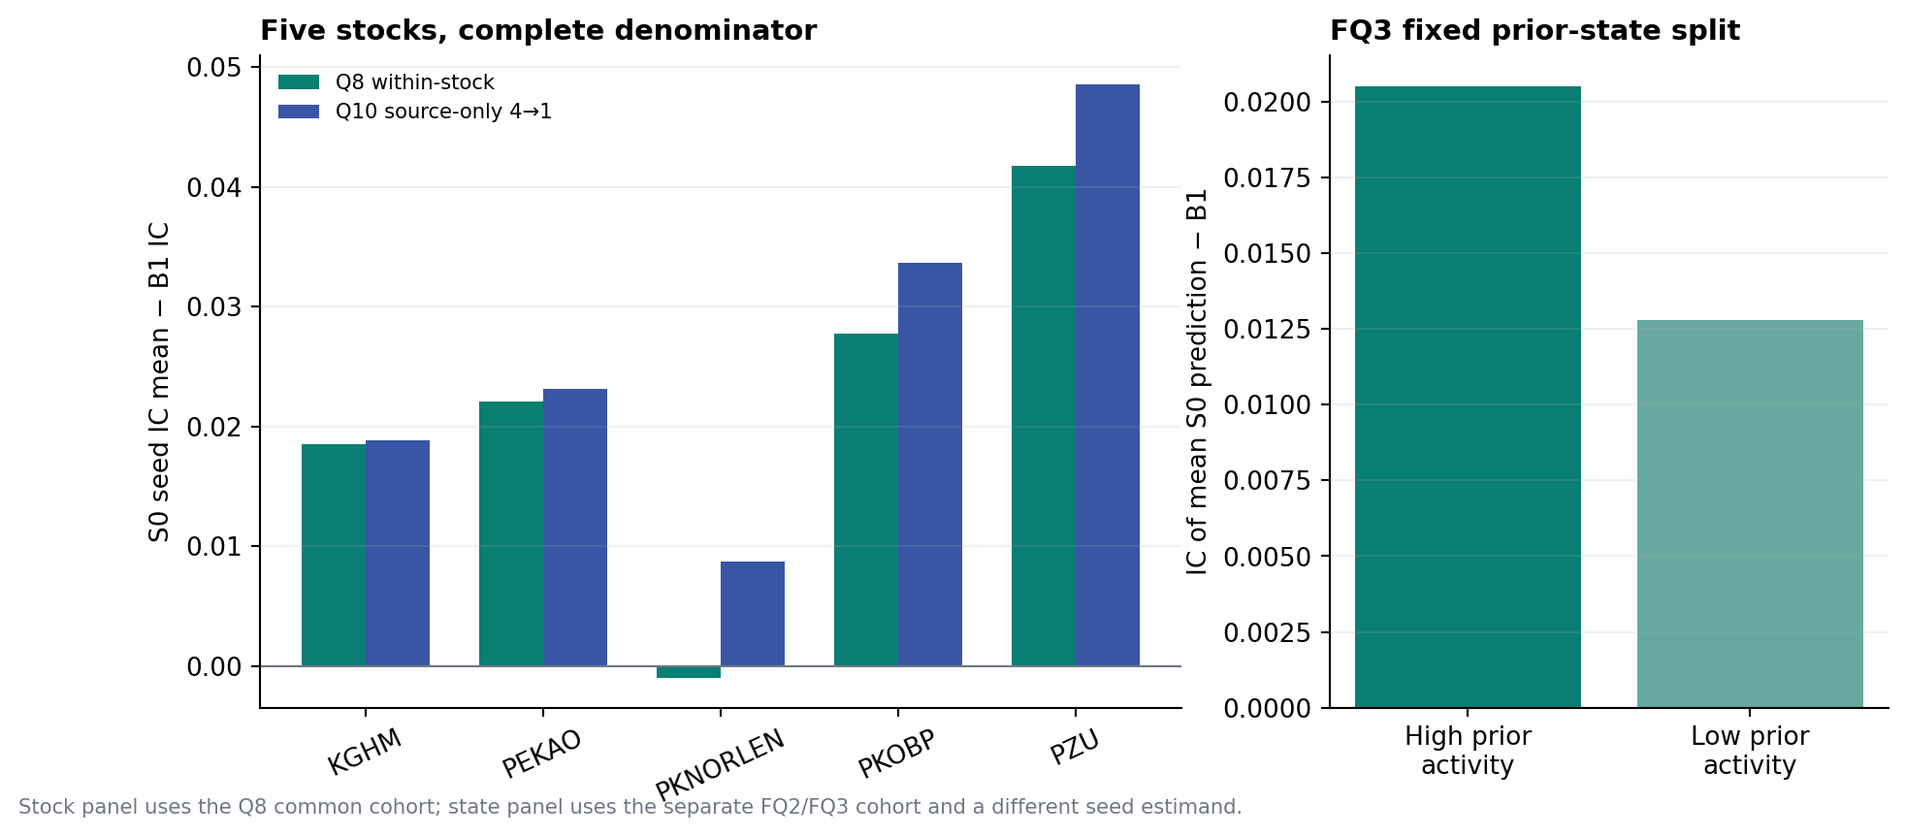
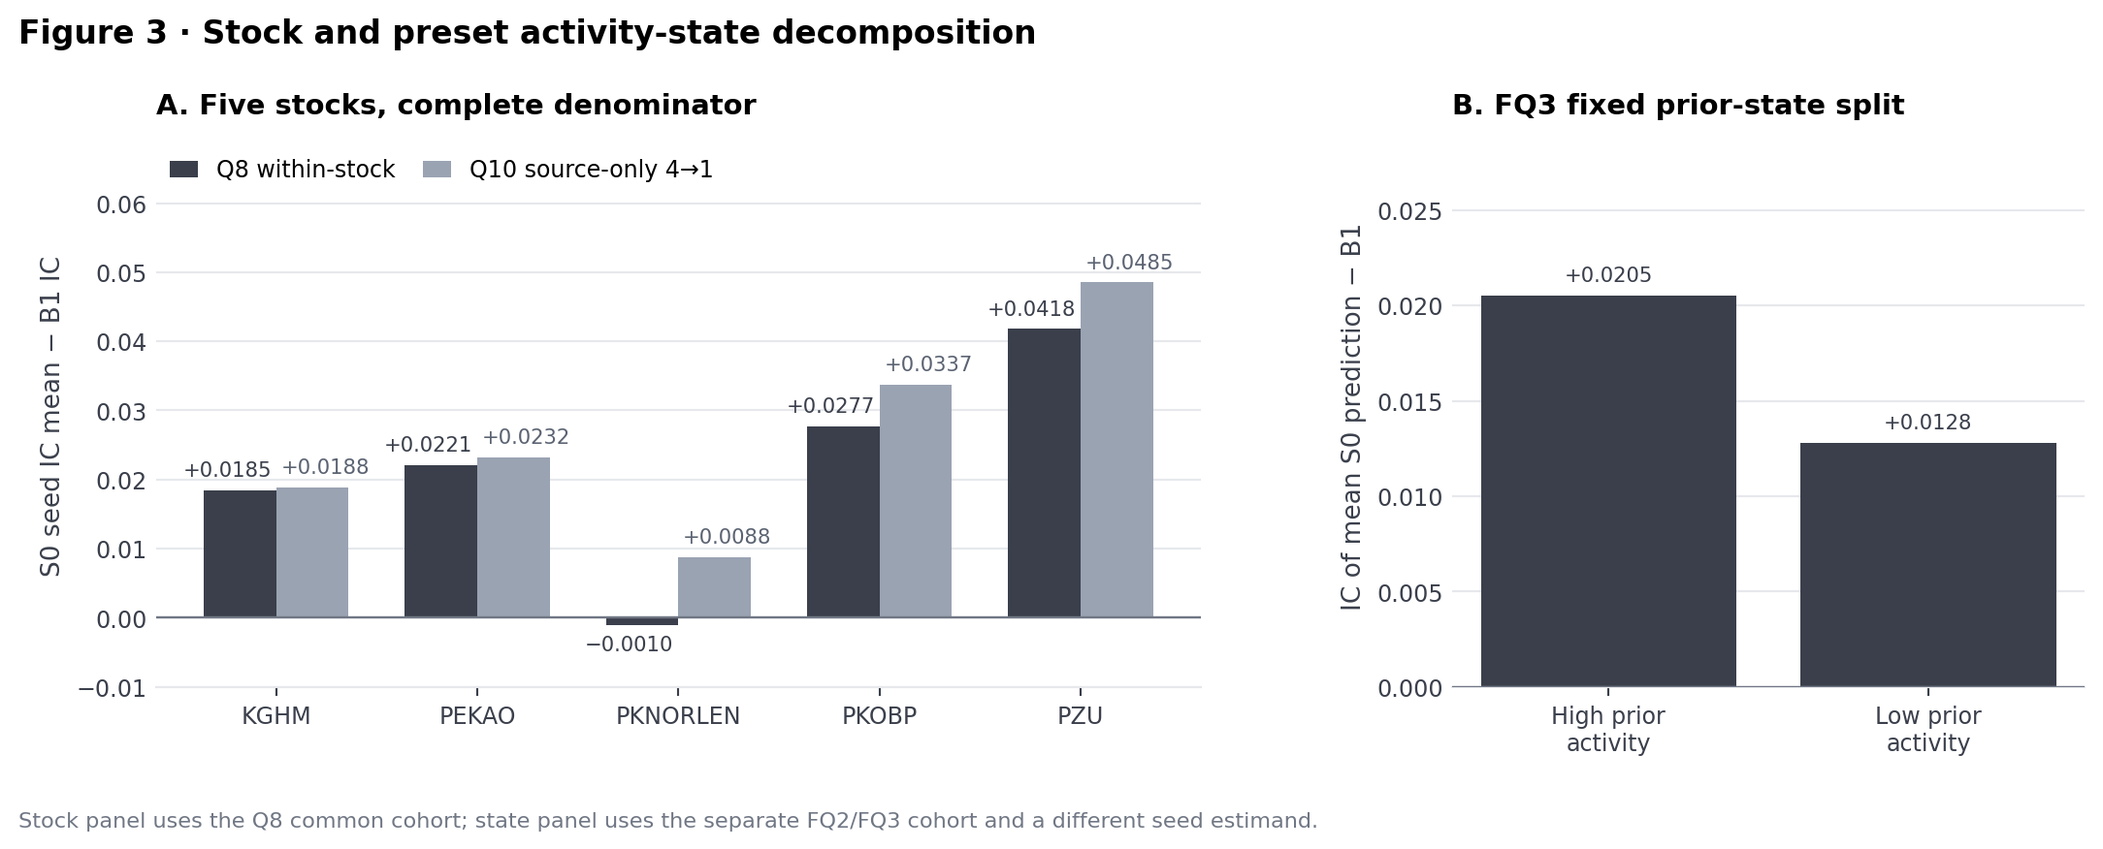
Restyle final sequence-ML figures and reorganize package page
Presentation only: shared model colors with the README headline figure,
direct value labels, panel letters, key terms and figure captions.
Plotted values, aggregates and cost table are unchanged.

diff --git a/scripts/render_sequence_ml_final.py b/scripts/render_sequence_ml_final.py
@@ -7,13 +7,49 @@ matplotlib.use('Agg')
 from matplotlib import pyplot as plt
 import numpy as np
 
-BLUE='#3855a6';TEAL='#087f72';ORANGE='#c96b26';GRAY='#707784';RED='#aa4050'
+BLUE='#3855a6';ORANGE='#c96b26';GRAY='#707784';SLATE='#3a3f4b';LIGHT_SLATE='#9aa3b2'
 def sha(p):return hashlib.sha256(Path(p).read_bytes()).hexdigest()
 def read(p):return json.loads(Path(p).read_text())
-def save(fig,p):fig.savefig(p,dpi=190,bbox_inches='tight',facecolor='white');plt.close(fig)
-def style(ax,title,ylabel):
-    ax.set_title(title,loc='left',fontsize=11,weight='bold');ax.set_ylabel(ylabel)
-    ax.spines[['top','right']].set_visible(False);ax.grid(axis='y',alpha=.18)
+def save(fig,p):
+    fig.savefig(p,dpi=190,bbox_inches='tight',facecolor='white',metadata={'Software': None})
+    plt.close(fig)
+def value_label(value,kind):
+    spec={'delta':'+.4f','ic':'.3f','bp':'+.2f','coverage':'.1f'}[kind]
+    return format(value,spec).replace('-', '−')+('%' if kind=='coverage' else '')
+def style(ax,title,ylabel,kind='delta',label_shift=0):
+    ax.set_title(title,loc='left',fontsize=11,weight='bold',pad=12)
+    ax.set_ylabel(ylabel,color=SLATE)
+    ax.spines[['top','right','left']].set_visible(False)
+    ax.spines['bottom'].set_color('#e6e8ec')
+    ax.tick_params(axis='both',colors=SLATE,labelsize=9)
+    ax.tick_params(axis='y',length=0)
+    ax.set_axisbelow(True)
+    ax.grid(axis='y',color='#e6e8ec',linewidth=.8)
+    ax.axhline(0,color=GRAY,lw=.9,zorder=3)
+    for container in ax.containers:
+        if not isinstance(container,matplotlib.container.BarContainer):
+            continue
+        for bar in container:
+            value=bar.get_height()
+            color=bar.get_facecolor()
+            if color==matplotlib.colors.to_rgba(LIGHT_SLATE):
+                color='#5b6372'
+            dx=label_shift if color=='#5b6372' else -label_shift
+            ax.annotate(value_label(value,kind),
+                        (bar.get_x()+bar.get_width()/2,value),
+                        xytext=(dx,4 if value>=0 else -4),textcoords='offset points',
+                        ha='center',va='bottom' if value>=0 else 'top',fontsize=8,color=color)
+    lo,hi=ax.get_ylim()
+    span=hi-lo
+    ax.set_ylim(lo-.12*span if lo<0 else 0,hi+.32*span)
+def legend(ax):
+    ax.legend(loc='upper left',ncol=2,frameon=False,fontsize=9,
+              handlelength=1.2,columnspacing=1.2,borderaxespad=.2)
+def header(fig,title,*,bottom=.19,top=.83,hspace=.42):
+    for ax in fig.axes:
+        ax.xaxis.label.set_color(SLATE)
+    fig.suptitle(title,x=.01,y=.98,ha='left',fontsize=12.5,weight='bold')
+    fig.subplots_adjust(left=.075,right=.985,bottom=bottom,top=top,wspace=.30,hspace=hspace)
 def main():
     ap=argparse.ArgumentParser();ap.add_argument('--out',type=Path,default=Path('results/sequence_ml_final_v1'));a=ap.parse_args()
     if a.out.exists():raise ValueError('preserve existing final package')
@@ -31,61 +67,68 @@ def main():
     if d['Q11']['common_opportunities']<=0:raise ValueError('no common execution opportunities')
     a.out.mkdir(parents=True);figs=a.out/'figures';figs.mkdir();made=[]
     # Figure 1: two distinct historical cohorts, separated rather than pooled.
-    fig,axes=plt.subplots(1,2,figsize=(11.4,4.5))
+    fig,axes=plt.subplots(1,2,figsize=(11.5,4.6))
     sizes=(50000,100000,200000);q2=d['FQ2']
     delta=[q2['levels'][str(n)]['full_denominator_result']['paired_vs_B1']['S0_seed_mean']['mean_delta_ic'] for n in sizes]
     ci=[q2['levels'][str(n)]['full_denominator_result']['paired_vs_B1']['S0_seed_mean']['ci95_block5'] for n in sizes]
-    axes[0].errorbar(range(3),delta,yerr=[[v-c[0] for v,c in zip(delta,ci)],[c[1]-v for v,c in zip(delta,ci)]],fmt='o-',color=TEAL,capsize=4)
-    axes[0].axhline(0,color=GRAY,lw=.8);axes[0].set_xticks(range(3),['50k','100k','200k']);axes[0].set_xlabel('Training endpoints per stock')
-    style(axes[0],'FQ2: context32 sample scaling','S0−B1 equal-cell IC')
+    axes[0].errorbar(range(3),delta,yerr=[[v-c[0] for v,c in zip(delta,ci)],[c[1]-v for v,c in zip(delta,ci)]],fmt='o-',color=SLATE,capsize=4,markersize=6)
+    axes[0].set_xticks(range(3),['50k','100k','200k']);axes[0].set_xlabel('Training endpoints per stock')
+    style(axes[0],'A. FQ2: context32 sample scaling','S0−B1 equal-cell IC')
+    for i,(value,interval) in enumerate(zip(delta,ci)):
+        axes[0].annotate(value_label(value,'delta'),(i,interval[1]),
+                         xytext=(0,5),textcoords='offset points',ha='center',fontsize=8,color=SLATE)
+    axes[0].margins(x=.16)
     contexts=(8,32,128);q8=d['Q8'];b=[q8['evaluation'][str(c)]['full_denominator_result']['mean_ic']['B1_history_xgboost'] for c in contexts]
     s=[q8['evaluation'][str(c)]['full_denominator_result']['S0_seed_mean_ic'] for c in contexts]
-    x=np.arange(3);axes[1].bar(x-.17,b,.34,label='B1 history XGBoost',color=BLUE);axes[1].bar(x+.17,s,.34,label='S0 GRU seed IC mean',color=TEAL)
-    axes[1].set_xticks(x,[str(c) for c in contexts]);axes[1].set_xlabel('History states');axes[1].legend(frameon=False,fontsize=8)
-    style(axes[1],'Q8: common 128-eligible rows','Equal-cell retrospective IC')
-    fig.text(.01,-.015,'Both panels use exposed 2017 dates; Q8 eligibility differs from FQ2 and is never pooled with it.',fontsize=8,color=GRAY)
+    x=np.arange(3);axes[1].bar(x-.17,b,.34,label='B1 · history XGBoost',color=BLUE);axes[1].bar(x+.17,s,.34,label='S0 · GRU, mean of seed ICs',color=ORANGE)
+    axes[1].set_xticks(x,[str(c) for c in contexts]);axes[1].set_xlabel('History states');legend(axes[1])
+    style(axes[1],'B. Q8: common 128-eligible rows','Equal-cell retrospective IC','ic')
+    header(fig,'Figure 1 · Matched-history and context comparison')
+    fig.text(.01,.025,'Both panels use exposed 2017 dates; Q8 eligibility differs from FQ2 and is never pooled with it.',fontsize=8.5,color=GRAY)
     p=figs/'01_history_and_sample_scale.png';save(fig,p);made.append(p)
     # Figure 2: fixed versus updated monthly IC; temporal composition changes with refit.
     months=('2017-06','2017-09','2017-11');q3=d['FQ3'];time=q3['time_fixed_vs_updated'];x=np.arange(3)
     b=[time[m]['B1_history_xgboost']['updated_minus_fixed_ic'] for m in months]
     s=[np.mean([time[m][f'S0_history_gru_seed{seed}']['updated_minus_fixed_ic'] for seed in (7,17,29)]) for m in months]
-    fig,ax=plt.subplots(figsize=(8.8,4.5));ax.bar(x-.18,b,.36,color=BLUE,label='B1');ax.bar(x+.18,s,.36,color=TEAL,label='S0 three-seed mean')
-    ax.axhline(0,color=GRAY,lw=.8);ax.set_xticks(x,['June','September','November']);ax.legend(frameon=False)
+    fig,ax=plt.subplots(figsize=(11.5,4.2));ax.bar(x-.18,b,.36,color=BLUE,label='B1 · history XGBoost');ax.bar(x+.18,s,.36,color=ORANGE,label='S0 · GRU, three-seed mean')
+    ax.set_xticks(x,['June','September','November']);legend(ax)
     style(ax,'FQ3: updated minus fixed model on exposed months','Equal-cell IC difference')
-    fig.text(.02,-.015,'Refits add newer training information and change calendar conditions together; this is not a causal decay estimate.',fontsize=8,color=GRAY)
+    header(fig,'Figure 2 · Monthly fixed versus updated comparison')
+    fig.text(.01,.025,'Refits add newer training information and change calendar conditions together; this is not a causal decay estimate.',fontsize=8.5,color=GRAY)
     p=figs/'02_time_and_update.png';save(fig,p);made.append(p)
     # Figure 3: all five stock effects for within-stock versus strict source-only fits, plus frozen state split.
     syms=d['Q10']['symbols'];within=q8['evaluation']['128']['full_denominator_result']['S0_seed_mean_vs_B1']['stock_delta_ic']
     transfer=d['Q10']['full_denominator_result']['S0_seed_mean_vs_B1']['stock_delta_ic'];state=q3['state']
-    fig,axes=plt.subplots(1,2,figsize=(11.4,4.6),gridspec_kw={'width_ratios':[1.65,1]});x=np.arange(len(syms))
-    axes[0].bar(x-.18,[within[s] for s in syms],.36,color=TEAL,label='Q8 within-stock')
-    axes[0].bar(x+.18,[transfer[s] for s in syms],.36,color=BLUE,label='Q10 source-only 4→1')
-    axes[0].set_xticks(x,syms,rotation=25);axes[0].axhline(0,color=GRAY,lw=.8);axes[0].legend(frameon=False,fontsize=8)
-    style(axes[0],'Five stocks, complete denominator','S0 seed IC mean − B1 IC')
+    fig,axes=plt.subplots(1,2,figsize=(11.5,4.6),gridspec_kw={'width_ratios':[1.65,1]});x=np.arange(len(syms))
+    axes[0].bar(x-.18,[within[s] for s in syms],.36,color=SLATE,label='Q8 within-stock')
+    axes[0].bar(x+.18,[transfer[s] for s in syms],.36,color=LIGHT_SLATE,label='Q10 source-only 4→1')
+    axes[0].set_xticks(x,syms);legend(axes[0])
+    style(axes[0],'A. Five stocks, complete denominator','S0 seed IC mean − B1 IC',label_shift=5)
     keys=('high_activity','low_activity');vals=[state[k]['paired_delta_ic']['full_denominator_mean'] for k in keys]
-    axes[1].bar(['High prior\nactivity','Low prior\nactivity'],vals,color=[TEAL,'#67a9a0']);axes[1].axhline(0,color=GRAY,lw=.8)
-    style(axes[1],'FQ3 fixed prior-state split','IC of mean S0 prediction − B1')
-    fig.text(.01,-.015,'Stock panel uses the Q8 common cohort; state panel uses the separate FQ2/FQ3 cohort and a different seed estimand.',fontsize=8,color=GRAY)
+    axes[1].bar(['High prior\nactivity','Low prior\nactivity'],vals,color=SLATE)
+    style(axes[1],'B. FQ3 fixed prior-state split','IC of mean S0 prediction − B1')
+    header(fig,'Figure 3 · Stock and preset activity-state decomposition')
+    fig.text(.01,.025,'Stock panel uses the Q8 common cohort; state panel uses the separate FQ2/FQ3 cohort and a different seed estimand.',fontsize=8.5,color=GRAY)
     p=figs/'03_stock_and_state.png';save(fig,p);made.append(p)
     # Figure 4: selected visible crossing at fixed t+20 exit, including coverage and both research populations.
     q11=d['Q11'];modes=('Q8_within_stock','Q10_source_only_transfer');arms=('B1_history_xgboost','S0_seed_mean');delays=(0,1,5)
-    fig,axes=plt.subplots(2,2,figsize=(11.5,8.0),sharex='col')
+    fig,axes=plt.subplots(2,2,figsize=(11.5,7.6),sharex='col')
     for row,mode in enumerate(modes):
         label='Within-stock Q8' if row==0 else 'Source-only Q10'
-        for arm,shift,color in ((arms[0],-.18,BLUE),(arms[1],.18,TEAL)):
+        for arm,shift,color in ((arms[0],-.18,BLUE),(arms[1],.18,ORANGE)):
             cells=[q11['execution'][mode][arm][str(delay)] for delay in delays]
             mark=[cell['pooled_selected_crossed_bps_descriptive'] for cell in cells]
             coverage=[100*cell['selected_sum_across_cells']/cell['common_opportunities_sum_across_cells'] if cell['common_opportunities_sum_across_cells'] else np.nan for cell in cells]
             if any(v is None for v in mark):raise ValueError('no selected opportunities for a finalist')
-            axes[row,0].bar(np.arange(3)+shift,mark,.36,color=color,label='B1' if arm==arms[0] else 'S0 mean')
-            axes[row,1].bar(np.arange(3)+shift,coverage,.36,color=color,label='B1' if arm==arms[0] else 'S0 mean')
-        axes[row,0].axhline(0,color=GRAY,lw=.8);axes[row,0].set_xticks(range(3),['0','1','5'])
+            axes[row,0].bar(np.arange(3)+shift,mark,.36,color=color,label='B1 · history XGBoost' if arm==arms[0] else 'S0 · GRU, seed mean')
+            axes[row,1].bar(np.arange(3)+shift,coverage,.36,color=color,label='B1 · history XGBoost' if arm==arms[0] else 'S0 · GRU, seed mean')
+        axes[row,0].set_xticks(range(3),['0','1','5'])
         axes[row,1].set_xticks(range(3),['0','1','5'])
-        style(axes[row,0],label+': visible crossing','Pooled selected crossed bp')
-        style(axes[row,1],label+': selection coverage','Selected / common, %')
-        axes[row,0].legend(frameon=False,fontsize=8)
-    axes[1,0].set_xlabel('Entry delay, original messages');axes[1,1].set_xlabel('Entry delay, original messages')
-    fig.text(.01,-.005,'One share at visible quotes, fixed t+20 exit; selected sets differ by arm. No fills, fees, queue, impact, inventory or realized PnL.',fontsize=8,color=GRAY)
+        style(axes[row,0],('A. ' if row==0 else 'C. ')+label+': visible crossing','Pooled selected crossed bp','bp')
+        style(axes[row,1],('B. ' if row==0 else 'D. ')+label+': selection coverage','Selected / common, %','coverage')
+    legend(axes[0,0]);axes[1,0].set_xlabel('Entry delay, original messages');axes[1,1].set_xlabel('Entry delay, original messages')
+    header(fig,'Figure 4 · Ranking and visible-crossing cost with coverage',bottom=.12,top=.89,hspace=.48)
+    fig.text(.01,.025,'One share at visible quotes, fixed t+20 exit; selected sets differ by arm. No fills, fees, queue, impact, inventory or realized PnL.',fontsize=8.5,color=GRAY)
     p=figs/'04_prediction_and_visible_execution.png';save(fig,p);made.append(p)
     # Allocation table: scheduler time is not GPU/CPU utilization.
     alloc={s:read(f'results/sequence_ml_{s.lower()}_v1/{s.lower()}_gpu_allocation.json') for s in ('FQ2','FQ3','FQ4','Q8','Q10')}

diff --git a/docs/SEQUENCE_ML_FINAL_PACKAGE.md b/docs/SEQUENCE_ML_FINAL_PACKAGE.md
@@ -1,30 +1,91 @@
 # Final WSELOB sequence-ML research package
 
-Status: **formal historical program complete; retrospective**. All evaluation dates and stocks were exposed to the research process, so these results are not independently confirmed. This completed package covers historical WSE research only; it does not establish current-market trading performance.
+> [!IMPORTANT]
+> Status: **formal historical program complete; retrospective**. All evaluation dates and stocks were exposed to the research process, so these results are not independently confirmed. This completed package covers historical WSE research only; it does not establish current-market trading performance.
+
+**Contents:** [Key terms](#key-terms) · [Research answer](#research-answer) · [Figures](#figures) · [Reproducibility and cost](#reproducibility-and-cost) · [Claim boundary](#claim-boundary)
+
+## Key terms
+
+| Term | Meaning |
+| --- | --- |
+| WSE / WSELOB | Warsaw Stock Exchange limit-order-book data, five equities, 2017. |
+| B1 | History XGBoost: the cheap, history-matched baseline. |
+| S0 | One-layer GRU, trained with seeds 7/17/29. |
+| S1 | Small Transformer (FQ4 only). |
+| IC | Spearman rank correlation between forecast and realized midpoint change. It is not a return. |
+| h20 / t+20 | 20 original order-book messages ahead. |
+| Equal-cell | Each stock/day cell is averaged once. |
+| Dates | Jan–Mar trained models; April alone selected checkpoints/context; June, September and November supplied historical diagnostics. |
 
 ## Research answer
 
-- FQ2: history-matched GRU improved retrospective h20 ranking versus history XGBoost as formal per-stock training grew from 50k to 200k endpoints.
-- FQ4: the frozen context32 Transformer underperformed GRU (paired S1−S0 IC −0.009788). This negative result was retained without rescue tuning.
-- Q8: 8/32/128-state sensitivity used one common context128-eligible endpoint cohort. April alone selected 128; historical S0−B1 IC was +0.021823. PKNORLEN's within-stock effect was −0.000997.
-- Q10: five true four-source-stock → one-held-out-stock folds trained, normalized and selected context on source stocks alone. Historical S0−B1 IC was +0.026592 over 315 stock/day cells, conditional on already exposed stocks/dates. Source-April GRU context selection favors the neural arm.
-- Q11: the unchanged strict >1 bp visible quote crossing with 0/1/5-message entry delays and fixed t+20 exit was negative for both finalists, in both within-stock and source-only predictions at all delays. At zero delay, equal stock/day crossed results were Q8 B1/S0 −7.019/−7.165 bp and Q10 B1/S0 −6.781/−7.354 bp. These are research quote diagnostics, not fills or PnL.
+| Stage | What it tests | Result |
+| --- | --- | --- |
+| **FQ2** | Training size per stock | History-matched GRU improved retrospective h20 ranking versus history XGBoost as formal per-stock training grew from 50k to 200k endpoints. |
+| **FQ4** | Transformer vs GRU | The frozen context32 Transformer underperformed GRU (paired S1−S0 IC −0.009788). This negative result was retained without rescue tuning. |
+| **Q8** | History length, within-stock | 8/32/128-state sensitivity used one common context128-eligible endpoint cohort. April alone selected 128; historical S0−B1 IC was +0.021823. PKNORLEN's within-stock effect was −0.000997. |
+| **Q10** | Train on four stocks, test the fifth | Five true four-source-stock → one-held-out-stock folds trained, normalized and selected context on source stocks alone. Historical S0−B1 IC was +0.026592 over 315 stock/day cells, conditional on already exposed stocks/dates. Source-April GRU context selection favors the neural arm. |
+| **Q11** | Visible quote crossing cost | The unchanged strict >1 bp visible quote crossing with 0/1/5-message entry delays and fixed t+20 exit was negative for both finalists, in both within-stock and source-only predictions at all delays. At zero delay, equal stock/day crossed results were Q8 B1/S0 −7.019/−7.165 bp and Q10 B1/S0 −6.781/−7.354 bp. These are research quote diagnostics, not fills or PnL. |
 
-The [five-minute brief](SEQUENCE_ML_FINAL_RESEARCH_BRIEF.md) states the design and interpretation. Detailed stage reports: [FQ2](SEQUENCE_ML_FQ2_REPORT.md), [FQ3](SEQUENCE_ML_FQ3_REPORT.md), [FQ4](SEQUENCE_ML_FQ4_REPORT.md), [Q8](SEQUENCE_ML_Q8_REPORT.md), [Q10](SEQUENCE_ML_Q10_REPORT.md), [Q11](SEQUENCE_ML_Q11_REPORT.md). The prior 20k Q2/Q3/Q6 package remains an archived pilot, not final evidence.
+The [five-minute brief](SEQUENCE_ML_FINAL_RESEARCH_BRIEF.md) states the design and interpretation. The prior 20k Q2/Q3/Q6 package remains an archived pilot, not final evidence.
 
-## Reproducibility and cost
+**Detailed stage reports:** [FQ2](SEQUENCE_ML_FQ2_REPORT.md) · [FQ3](SEQUENCE_ML_FQ3_REPORT.md) · [FQ4](SEQUENCE_ML_FQ4_REPORT.md) · [Q8](SEQUENCE_ML_Q8_REPORT.md) · [Q10](SEQUENCE_ML_Q10_REPORT.md) · [Q11](SEQUENCE_ML_Q11_REPORT.md)
 
-`results/sequence_ml_final_v1/figures/` contains four final figures: matched-history/context comparison; monthly fixed-versus-updated comparison; complete stock and preset activity-state decomposition; and ranking/visible-crossing cost plus coverage. `cost_table.csv` records 7.912 allocated GPU-hours across FQ2/FQ3/FQ4/Q8/Q10 and 1.264 allocated CPU core-hours for Q11, with the small FQ3 CPU diagnostic wall allocation separately identified. Allocation is not utilization.
+## Figures
+
+`results/sequence_ml_final_v1/figures/` contains four final figures. Blue is B1 (history XGBoost) and orange is S0 (GRU) wherever the two models appear side by side, matching the README headline figure. Slate gray marks S0−B1 differences.
+
+### Figure 1 · Matched-history and context comparison
 
 ![Matched-history and context comparison](../results/sequence_ml_final_v1/figures/01_history_and_sample_scale.png)
 
+*A: FQ2 sample scaling at context32 (S0−B1 IC with 95% five-day block intervals). B: Q8 B1 and S0 IC on the common 128-eligible rows, by history length. The two panels use different cohorts and are never pooled.*
+
+### Figure 2 · Monthly fixed versus updated comparison
+
 ![Monthly fixed versus updated comparison](../results/sequence_ml_final_v1/figures/02_time_and_update.png)
+
+*FQ3: IC of the updated (refit) model minus the fixed model, per exposed month.*
+
+### Figure 3 · Stock and preset activity-state decomposition
 
 ![Stock and preset activity-state decomposition](../results/sequence_ml_final_v1/figures/03_stock_and_state.png)
 
+*A: S0−B1 IC for all five stocks, Q8 within-stock versus Q10 source-only. B: FQ3 fixed prior-state split (high versus low prior activity), measured as IC of the mean S0 prediction minus B1.*
+
+### Figure 4 · Ranking and visible-crossing cost with coverage
+
 ![Ranking and visible-crossing cost with coverage](../results/sequence_ml_final_v1/figures/04_prediction_and_visible_execution.png)
 
-From the scientific task branch and public aggregate receipts, `python3 scripts/recompute_sequence_ml_final.py --out /tmp/wse-recompute.json` reruns all six formal aggregators and requires byte-for-byte equality. `python3 scripts/render_sequence_ml_final_brief.py --out /tmp/wse-brief.md` and `python3 scripts/render_sequence_ml_final.py --out /tmp/wse-package` regenerate the brief, four figures and cost table. `python3 scripts/verify_sequence_ml_final.py --manifest-out /tmp/wse-scientific-manifest.json` independently verifies receipt/parent/source/model hashes and writes a fresh manifest. The committed `recomputation.json` records six byte-identical aggregate reruns; `scientific_manifest.json` inventories 65 run receipts, 215 model hashes, source/partition hashes and all output hashes. Original licensed WSE rows, row predictions, model weights and scheduler logs remain private.
+*Q11 visible crossing (left) and the share of common opportunities each arm selected (right). Bars are pooled over selected opportunities; the Research answer quotes equal stock/day means, so the two can differ.*
+
+## Reproducibility and cost
+
+The four figures cover matched-history/context comparison; monthly fixed-versus-updated comparison; complete stock and preset activity-state decomposition; and ranking/visible-crossing cost plus coverage. `cost_table.csv` records 7.912 allocated GPU-hours across FQ2/FQ3/FQ4/Q8/Q10 and 1.264 allocated CPU core-hours for Q11, with the small FQ3 CPU diagnostic wall allocation separately identified. Allocation is not utilization.
+
+From the scientific task branch and public aggregate receipts:
+
+```bash
+# Rerun all six formal aggregators; requires byte-for-byte equality.
+python3 scripts/recompute_sequence_ml_final.py --out /tmp/wse-recompute.json
+
+# Regenerate the brief, four figures and cost table.
+python3 scripts/render_sequence_ml_final_brief.py --out /tmp/wse-brief.md
+python3 scripts/render_sequence_ml_final.py --out /tmp/wse-package
+
+# Independently verify receipt/parent/source/model hashes and write a fresh manifest.
+python3 scripts/verify_sequence_ml_final.py --manifest-out /tmp/wse-scientific-manifest.json
+```
+
+| Receipt | Contents |
+| --- | --- |
+| [`recomputation.json`](../results/sequence_ml_final_v1/recomputation.json) | Six byte-identical aggregate reruns. |
+| [`scientific_manifest.json`](../results/sequence_ml_final_v1/scientific_manifest.json) | 65 run receipts, 215 model hashes, source/partition hashes and all output hashes. |
+| [`render_manifest.json`](../results/sequence_ml_final_v1/render_manifest.json) | Input aggregate, figure and cost-table hashes. |
+| [`cost_table.csv`](../results/sequence_ml_final_v1/cost_table.csv) | Allocated GPU and CPU hours per stage. |
+
+Original licensed WSE rows, row predictions, model weights and scheduler logs remain private.
 
 ## Claim boundary
 

diff --git a/CHANGELOG.md b/CHANGELOG.md
@@ -4,6 +4,7 @@
 
 - Added optional polars engine (`cloblab.polars_cache`, `cloblab cache-summary --engine {pandas,polars}`) for feature-cache partition summaries, with pandas as the default reference and parity tests on a synthetic multi-partition fixture; no scientific definitions or results changed.
 - Added `docs/TECH_STACK.md`; removed the unused `duckdb` dependency.
+- Restyled the four final sequence-ML figures (model colors shared with the README headline figure, direct value labels, panel letters) and reorganized `docs/SEQUENCE_ML_FINAL_PACKAGE.md` with key terms and figure captions; plotted values, aggregates and the cost table are unchanged.
 
 Dates are given where the linked documents record them.
 
